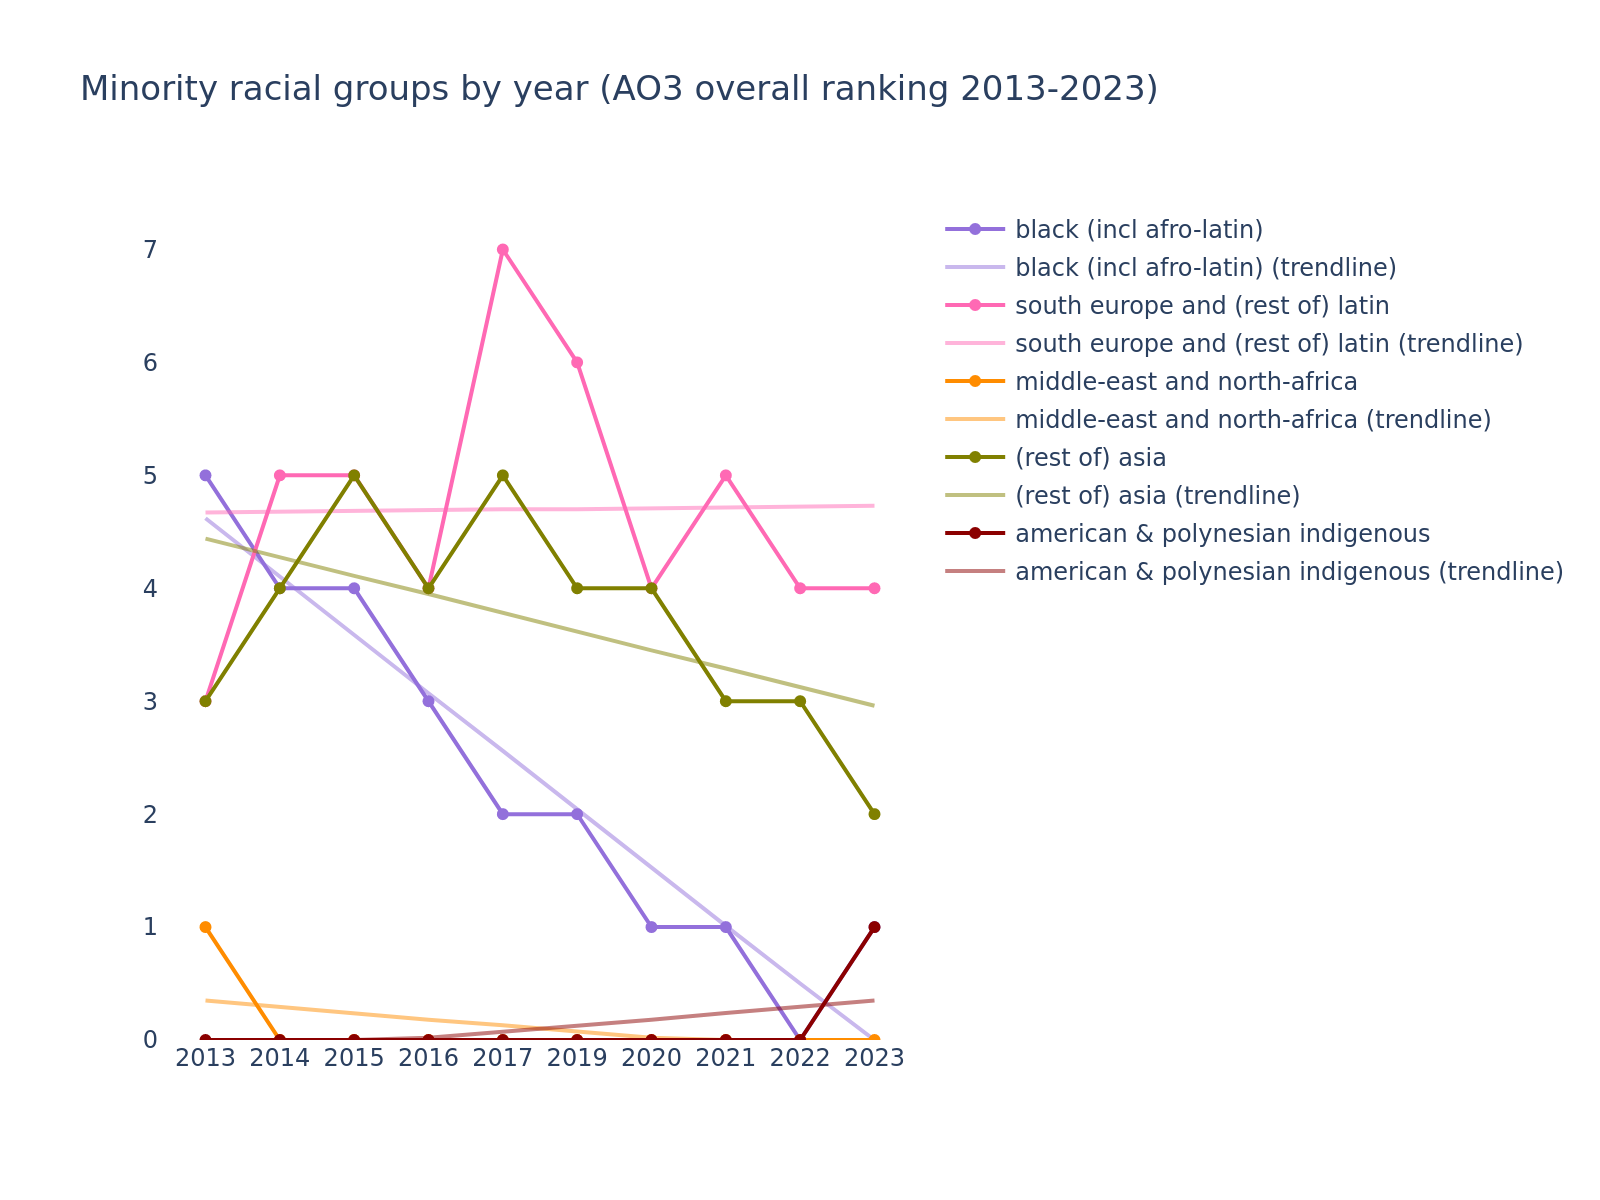
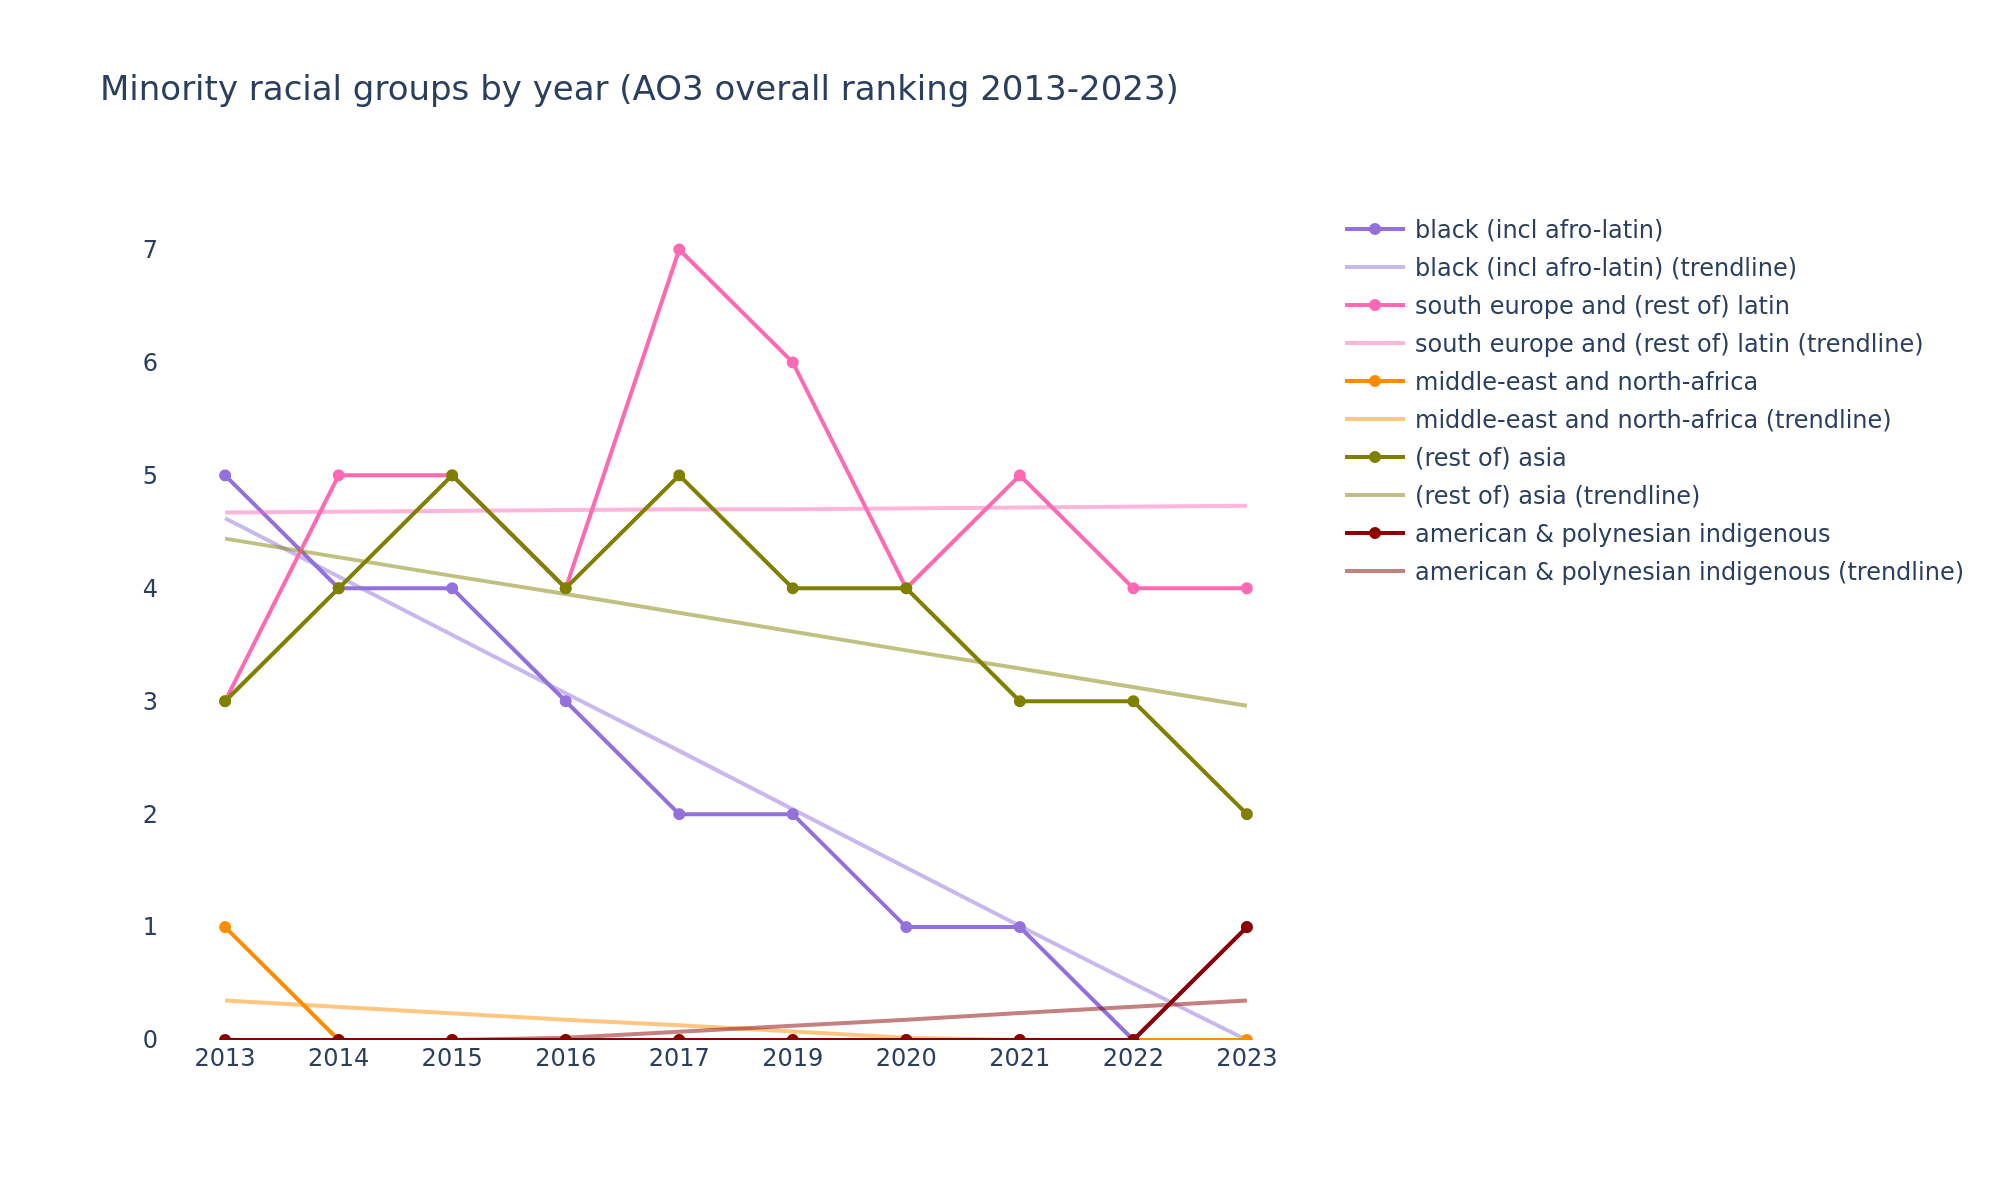
change ratio of overall racial minorities line chart

diff --git a/visualisation/ao3_overall_rankings_2013_2023/vis_overall_ranking_run_code.py b/visualisation/ao3_overall_rankings_2013_2023/vis_overall_ranking_run_code.py
@@ -140,7 +140,7 @@ race_percent_pies.write_image(
     height=600, 
     scale=2
 )
-# race minorities (same info, second diagram)
+# race minorities (same info, second diagram) ✅
 for year in race_percent_total:
     year_df = race_percent_total[year].copy()
     year_race_fig = visualise_stacked_bars(year_df, "minority_racial_groups", "overall")
@@ -153,12 +153,10 @@ for year in race_percent_total:
 race_minority_lines = visualise_multi_lines(race_percent_total, "minority_racial_groups", "overall")
 race_minority_lines.write_image(
     "visualisation/ao3_overall_rankings_2013_2023/ao3_overall_rankings_charts/overall_minority_racial_distr_2013_2023.png", 
-    width=800, 
+    width=1000, 
     height=600, 
     scale=2
 )
-# TODO I would love to add some trend lines to this in the visualise_multi_lines func but alas, 
-# only px seems to have that function built in smh -> figure out a manual way when brain works better
 # TODO run this for the femslash version too
 
 # race combo totals ✅
